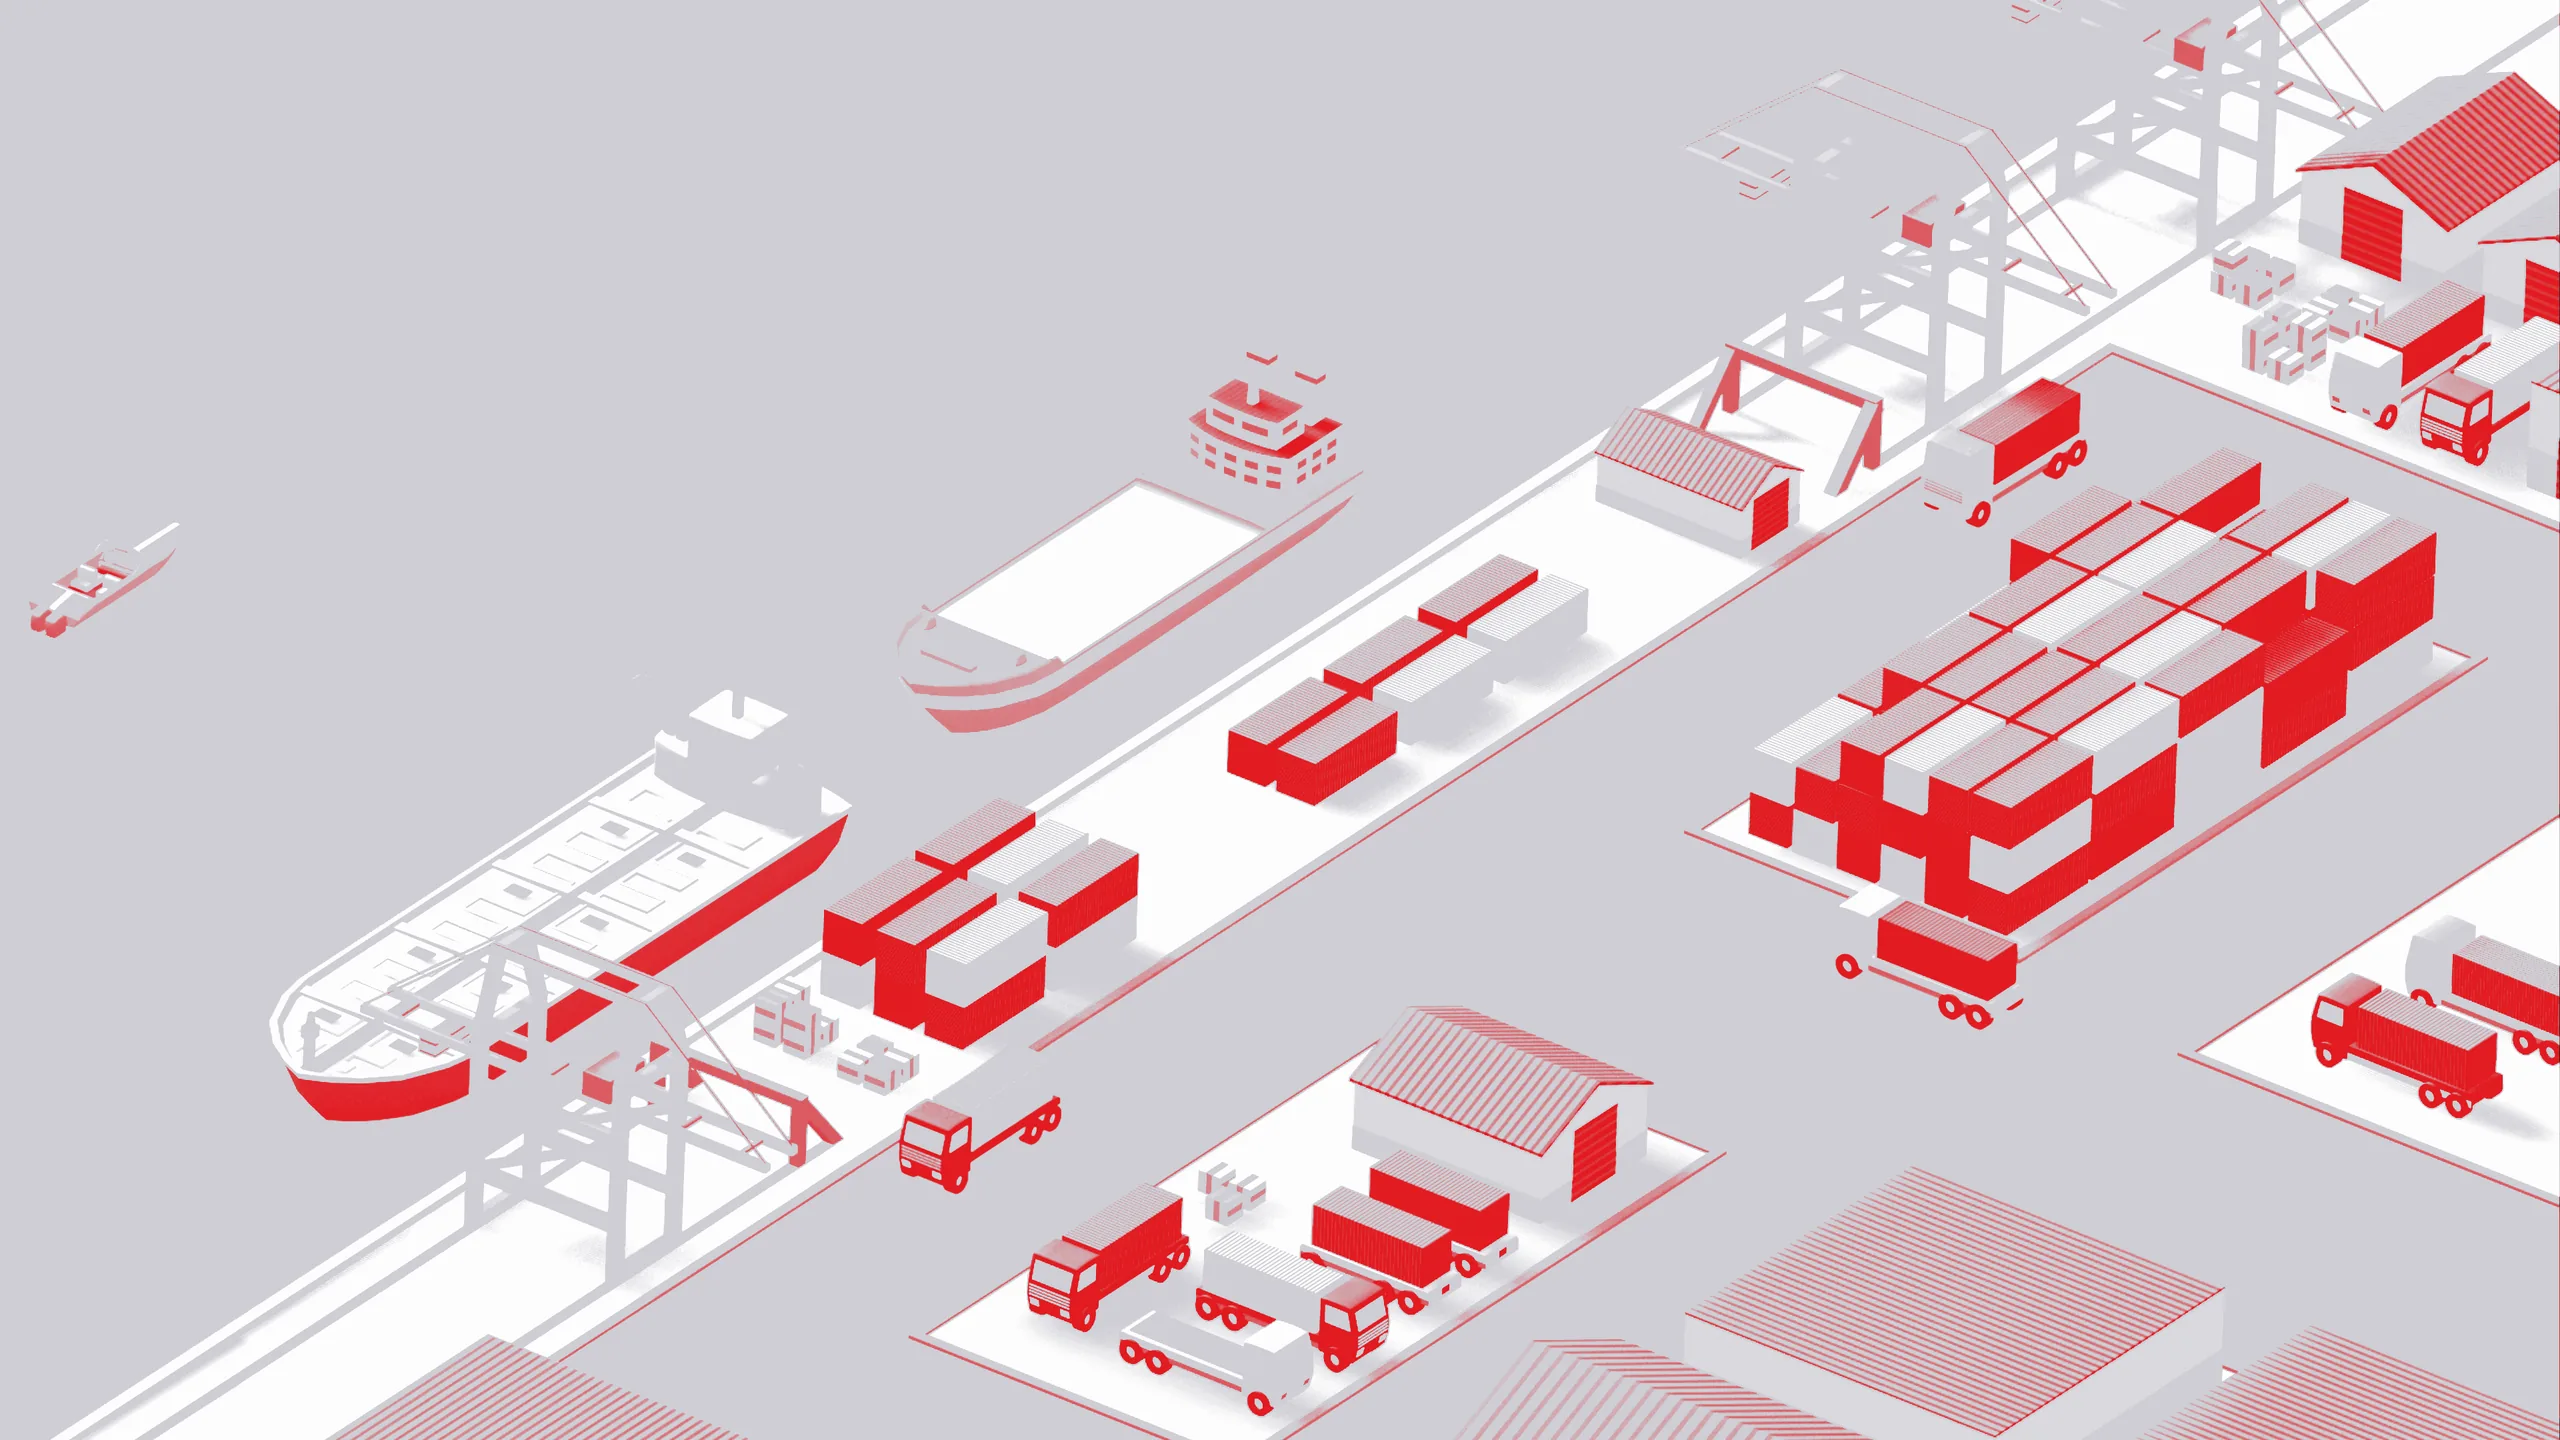
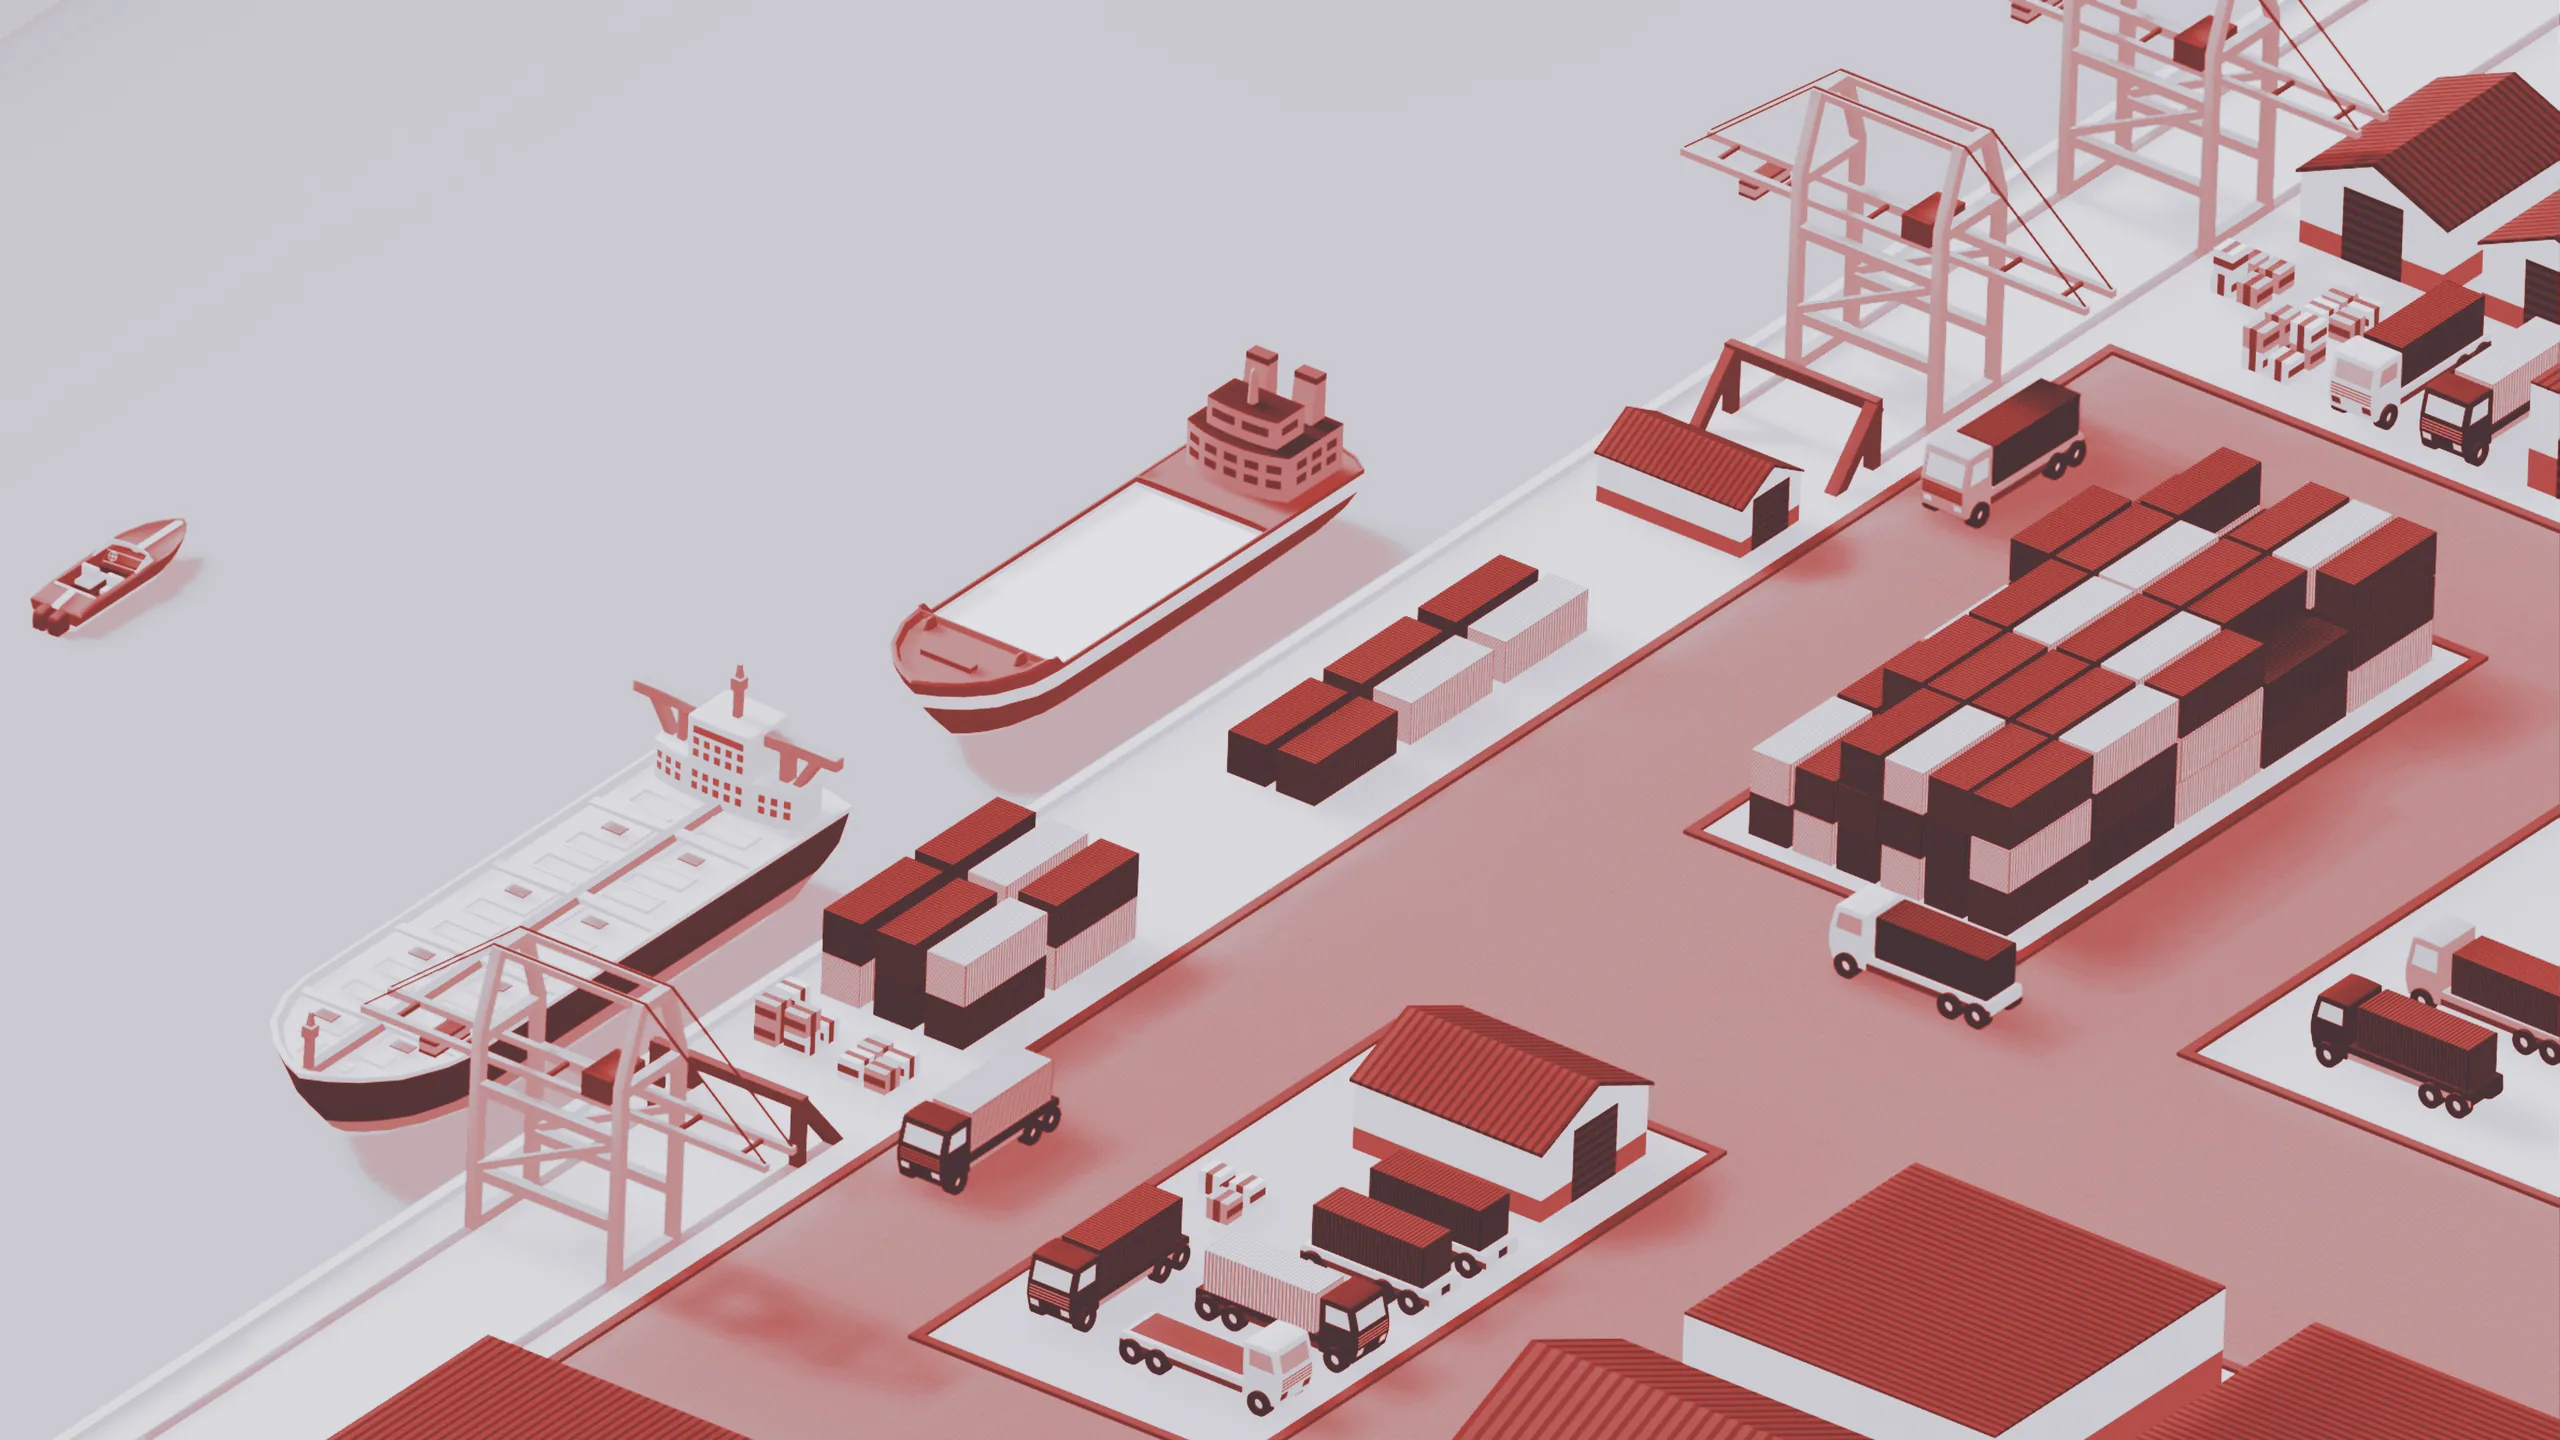
Hero: soft white/grey/red/black quadtone — muted, white background
Retune the white-theme tint to a soft 4-tone map: white/light-grey base and
background, black on the darkest faces, muted red on dark-mid objects, grey mids
— smoothly interpolated so it reads soft, not sharp. Brings black back without
harshness and keeps the background light. Re-captured the poster.

diff --git a/src/app/layout.tsx b/src/app/layout.tsx
@@ -94,22 +94,22 @@ export default function RootLayout({
                       0.2126 0.7152 0.0722 0 0
                       0 0 0 1 0"
             />
-            {/* No black. Darkest tones -> brand RED (a natural dark accent),
-                mid tones -> light silver-gray, brights -> white. Result: a clean
-                white/silver scene with red accents and soft gray shadows, like
-                the reference render. */}
+            {/* Soft 4-tone quadtone, smoothly interpolated (not hard bands) so
+                the scene reads muted, not sharp: deepest shadows -> soft charcoal
+                (black), dark tones -> a MUTED red, mids -> soft grey, brights ->
+                soft white. White base with grey / red / black accents. */}
             <feComponentTransfer>
               <feFuncR
                 type="table"
-                tableValues="0.886 0.886 0.886 0.81 0.81 0.81 0.81 0.995 0.995 0.995 0.995 0.995 0.995"
+                tableValues="0.16 0.178 0.316 0.705 0.756 0.766 0.793 0.821 0.849 0.877 0.904 0.932 0.96"
               />
               <feFuncG
                 type="table"
-                tableValues="0.106 0.106 0.106 0.81 0.81 0.81 0.81 0.995 0.995 0.995 0.995 0.995 0.995"
+                tableValues="0.16 0.178 0.207 0.261 0.524 0.766 0.793 0.821 0.849 0.877 0.904 0.932 0.96"
               />
               <feFuncB
                 type="table"
-                tableValues="0.133 0.133 0.133 0.835 0.835 0.835 0.835 0.995 0.995 0.995 0.995 0.995 0.995"
+                tableValues="0.18 0.198 0.217 0.240 0.528 0.795 0.819 0.843 0.868 0.892 0.916 0.941 0.965"
               />
             </feComponentTransfer>
           </filter>
